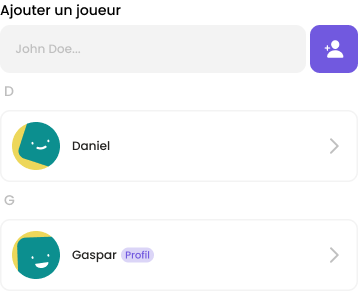
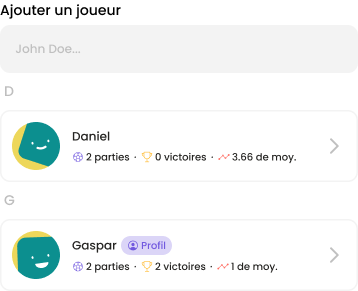
add classement to nouveautes and update app version

diff --git a/Screens/Parametres/Nouveautes.js b/Screens/Parametres/Nouveautes.js
@@ -60,6 +60,13 @@ const INTRO_DATA = [
     description:
       "Il est maintenant encore plus facile de créer une nouvelle partie ! Lors de la sélection des joueurs, le nouvel affichage vous permet de sélectionner ou de créer plus rapidement les joueurs pour votre partie.",
   },
+  {
+    key: '7',
+    title: 'Classement des joueurs',
+    image: require('../../assets/images/classement.png'),
+    description:
+      "Regardez votre classement en fonction de votre nombre de victoires, de vos points inscrits ou de la moyenne de votre position.",
+  },
 ];
 
 export default function Probleme({ navigation, route }) {
